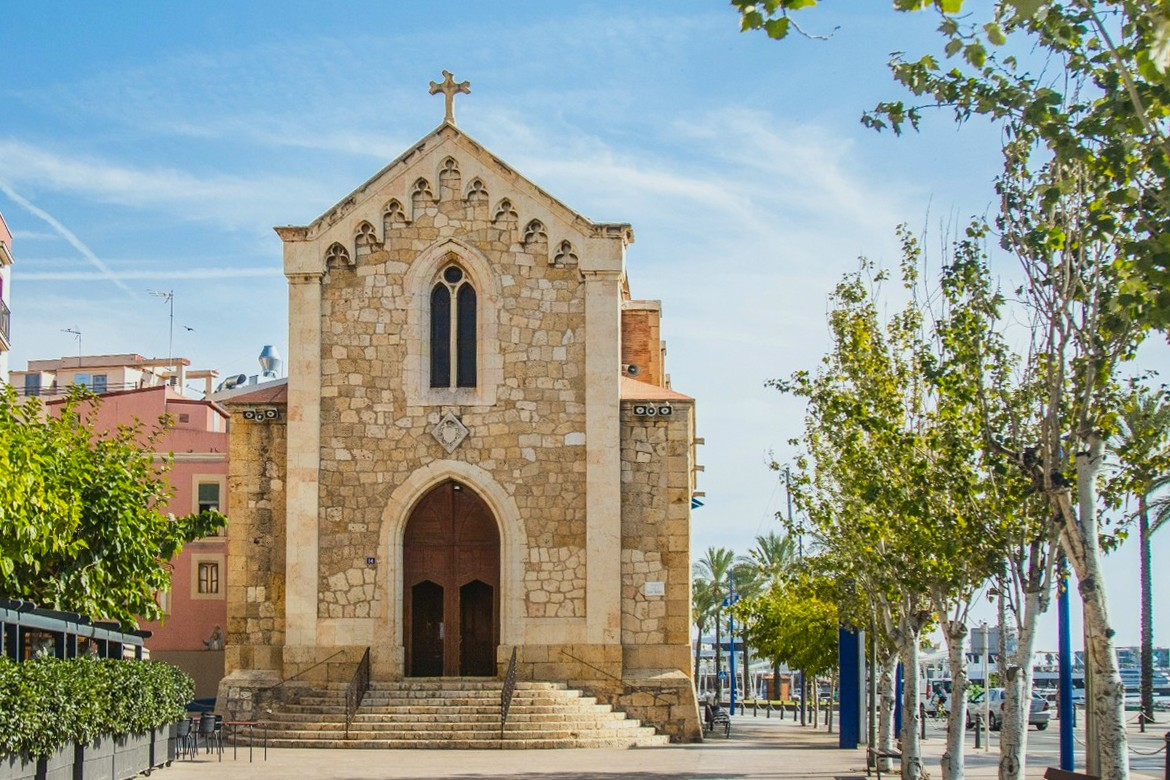
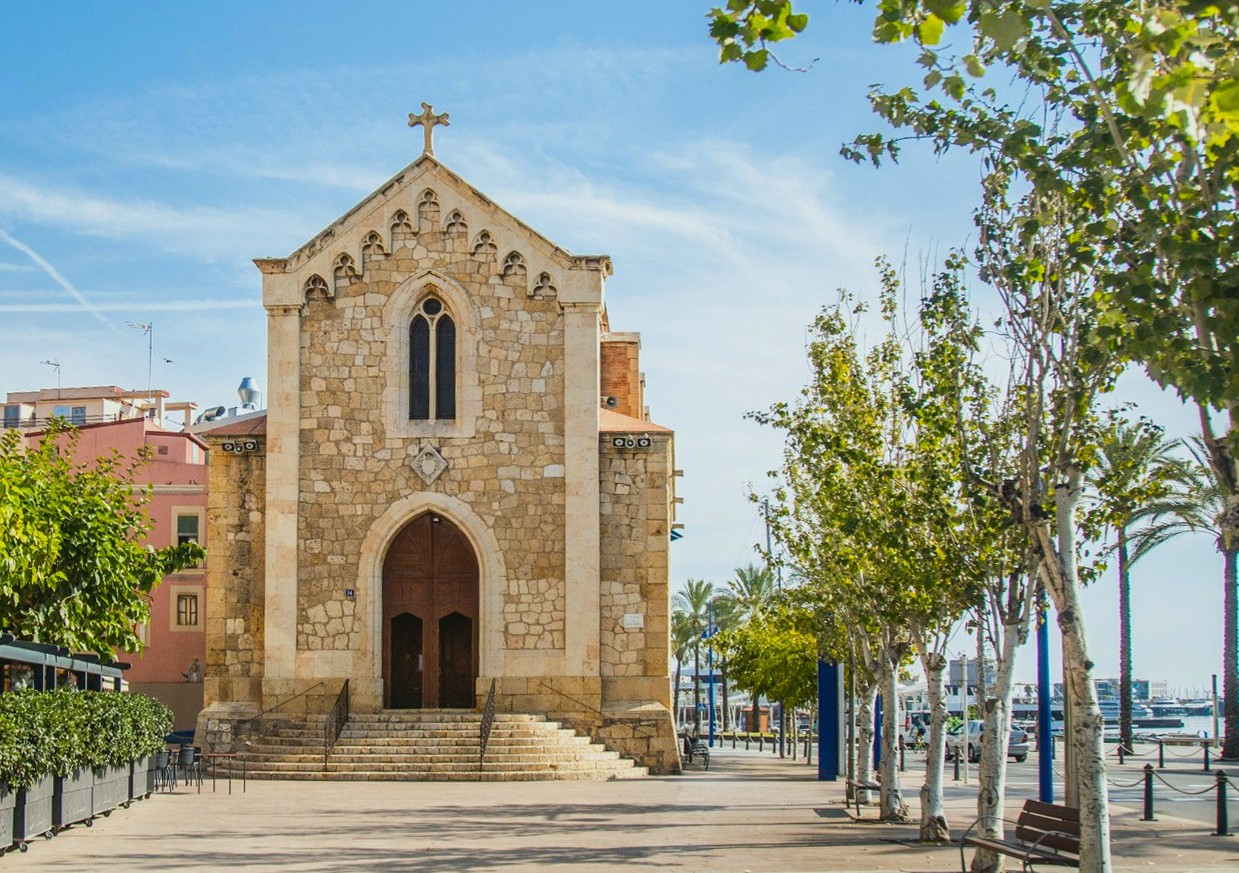
Desktop church: Paula's landscape crop
Claude-Session: https://claude.ai/code/session_01NVvXN2ZfjubBKEGKyT8HuS

diff --git a/index.html b/index.html
@@ -151,7 +151,7 @@ footer p{font-size:13.33px}
   .gallery{grid-template-columns:repeat(2,minmax(0,1fr))}
   .gallery img.wide{grid-column:1/-1;aspect-ratio:16/9}
   .hero-in,.nav,section,footer{zoom:1.3}
-  #ceremonia .photo img{aspect-ratio:3/2;object-position:50% 50%}
+  #ceremonia .photo img{aspect-ratio:1239/873;object-position:50% 50%}
   h2 br{display:none}
   .inner{max-width:640px}
 }
@@ -189,7 +189,7 @@ footer p{font-size:13.33px}
     <h2 class="d"><span class="n">I.</span><span class="t">Ceremonia en Sant <br>Pere del Serrallo</span></h2>
     <p class="body">A las 17:30, frente al mar, en la iglesia del barrio de pescadores de Tarragona.</p>
     <div><a class="btn" href="https://www.google.com/maps/search/?api=1&amp;query=Esgl%C3%A9sia+de+Sant+Pere+del+Serrallo+Tarragona" target="_blank" rel="noopener"><span>Ver en Google Maps</span></a></div>
-    <figure class="photo" style="margin-bottom:0;margin-left:0;margin-right:0"><picture><source media="(min-width:760px)" srcset="img/iglesia-horizontal.jpg"><img src="img/iglesia-boldu.jpg?v=5" alt="Iglesia de Sant Pere del Serrallo, Tarragona" loading="lazy"></picture></figure>
+    <figure class="photo" style="margin-bottom:0;margin-left:0;margin-right:0"><picture><source media="(min-width:760px)" srcset="img/iglesia-horizontal.jpg?v=2"><img src="img/iglesia-boldu.jpg?v=5" alt="Iglesia de Sant Pere del Serrallo, Tarragona" loading="lazy"></picture></figure>
   </div>
 </section>
 
